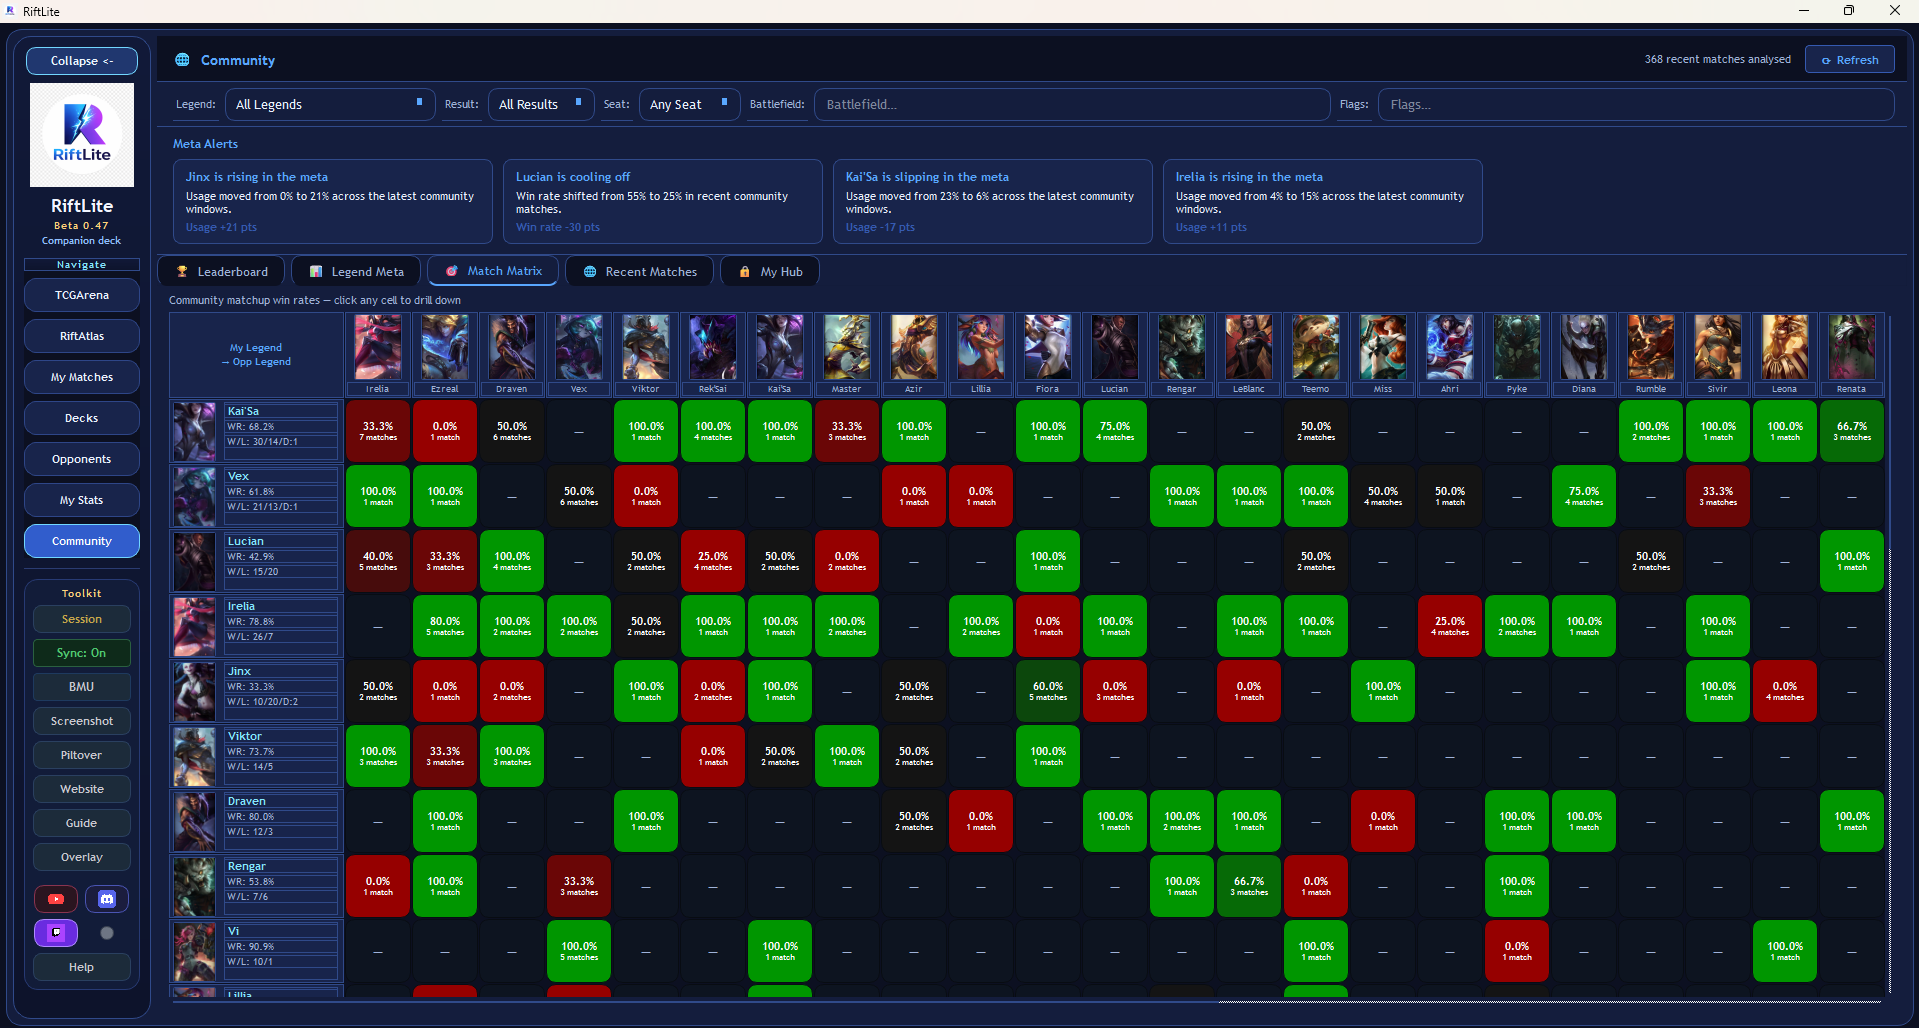
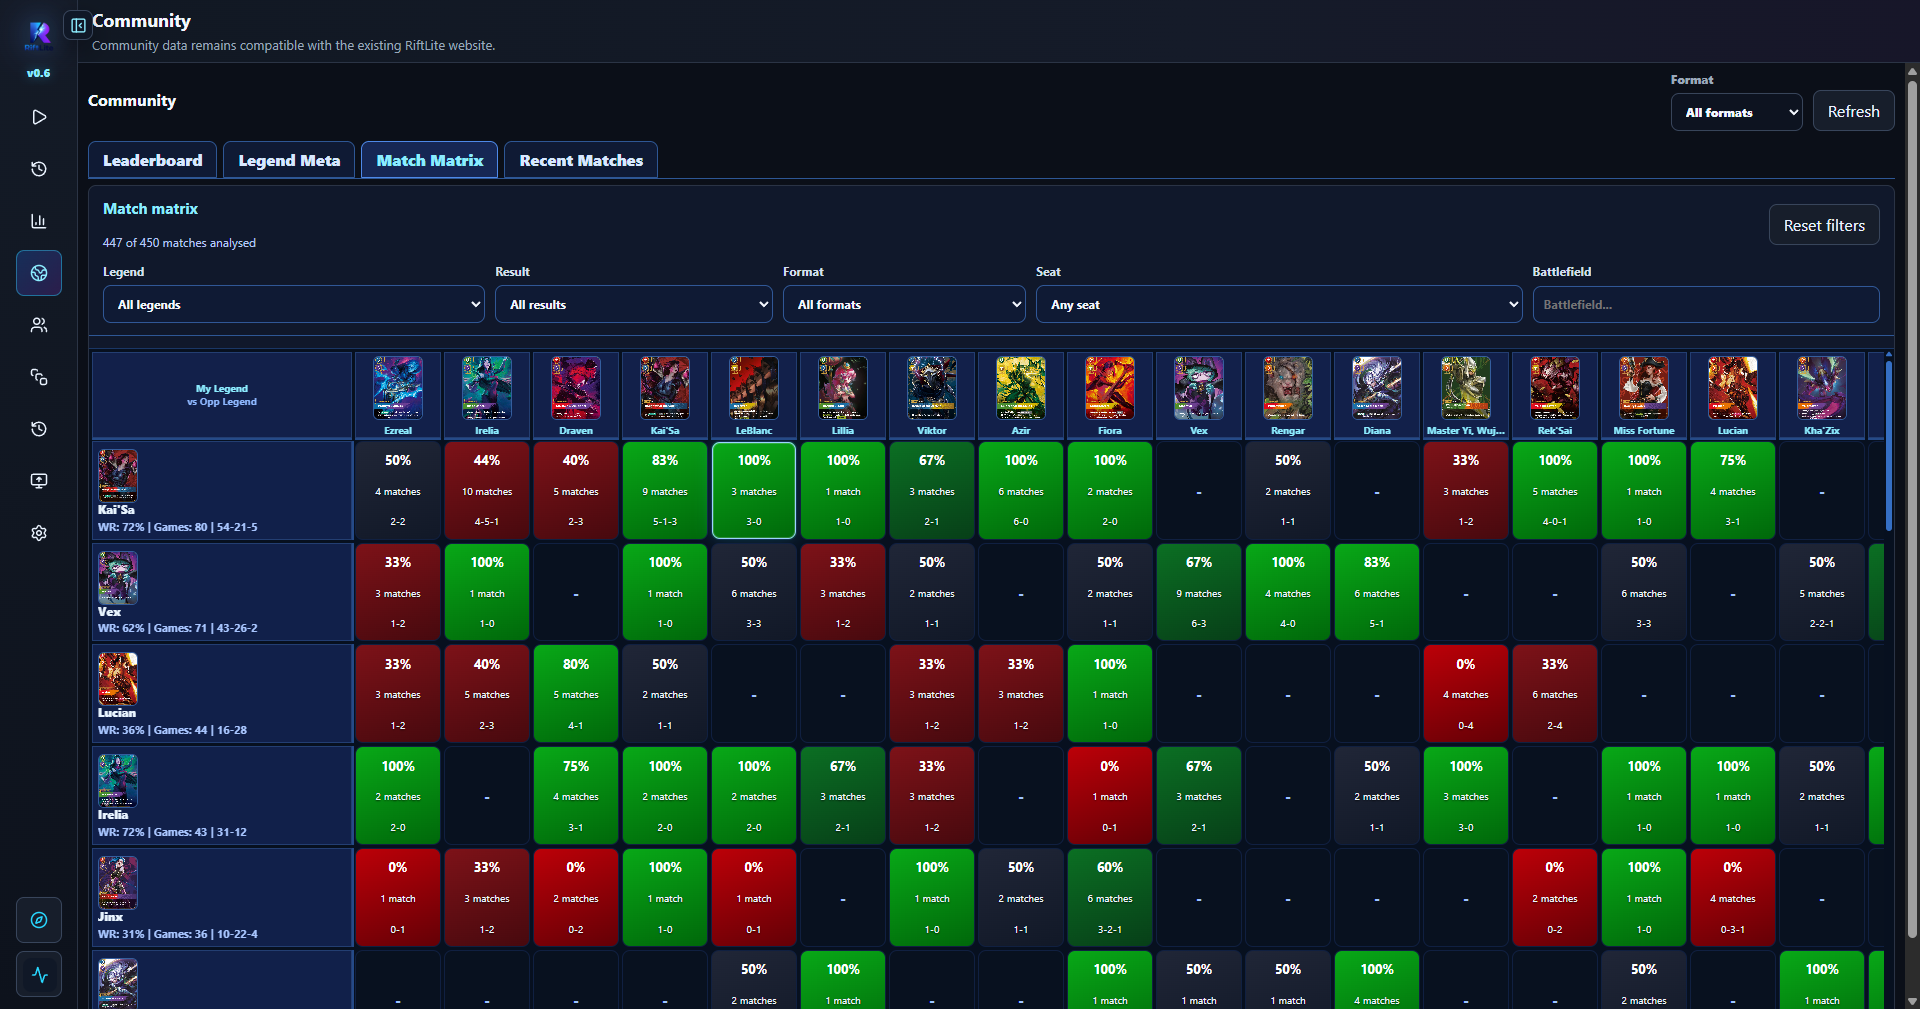
feat(site): refresh app screenshots and remove replay feature
Replay viewer is now coming-soon, so strip the dedicated section
from the homepage, swap the download-page preview card for the
community screenshot, and re-mark the feature bullet. Updated
overlay/stats-matrix/match-matrix screenshots to the new app UI.

diff --git a/src/app/page.tsx b/src/app/page.tsx
@@ -85,12 +85,12 @@ export default async function HomePage() {
               </CardDescription>
               <div className="overflow-hidden rounded-2xl border border-white/10 bg-slate-950/50 p-4">
                 <Image
-                  alt="RiftLite streamer overlay showing personal and community matchup stats for Ezreal vs Vex"
+                  alt="RiftLite stream overlay configuration with live preview of matchup stats"
                   className="h-auto w-full rounded-lg"
-                  height={290}
+                  height={1009}
                   priority
                   src="/screenshots/overlay.png"
-                  width={470}
+                  width={1920}
                 />
               </div>
             </div>
@@ -132,15 +132,15 @@ export default async function HomePage() {
             <Image
               alt="Community match matrix — every legend vs every legend"
               className="h-auto w-full rounded-xl"
-              height={819}
+              height={1009}
               src="/screenshots/match-matrix.png"
-              width={1456}
+              width={1920}
             />
           </div>
         </div>
       </FadeUp>
 
-      {/* Feature 1: Streamer Overlay (the headliner) */}
+      {/* Feature 1: Streamer Overlay details */}
       <FadeUp className="space-y-10">
         <SectionHeading
           id="feature-overlay"
@@ -148,84 +148,30 @@ export default async function HomePage() {
           title="A streamer overlay built for Riftbound."
           description="Drop one URL into OBS as a Browser Source and your viewers see the same matchup intel you do — personal win rates, community averages, going-first splits, and the most-played battlefield for game one. No cloud round-trip, no extra setup; it reads from your already-synced history."
         />
-        <div className="grid gap-8 lg:grid-cols-[1.2fr_1fr] lg:items-center">
-          <div className="relative overflow-hidden rounded-3xl border border-white/[0.08] bg-slate-950/60 p-6 shadow-[0_0_80px_rgba(89,167,255,0.08)]">
-            <div className="pointer-events-none absolute -right-24 -top-24 h-72 w-72 rounded-full bg-cyan-400/10 blur-3xl" />
-            <Image
-              alt="Landscape streamer overlay — Ezreal vs Vex with personal and community win rates"
-              className="relative h-auto w-full rounded-xl"
-              height={290}
-              src="/screenshots/overlay.png"
-              width={470}
-            />
-          </div>
-          <ul className="space-y-4">
-            {[
-              {
-                title: "Zero-lag, local-first",
-                body: "Served from 127.0.0.1 — instant updates when you change legend, no Firebase reads while you're live.",
-              },
-              {
-                title: "Portrait or landscape",
-                body: "Two layouts built in. Pick whichever fits your scene and grab the URL from the app.",
-              },
-              {
-                title: "Personal + community side-by-side",
-                body: "Your own matchup history next to community averages, so your chat sees the real picture.",
-              },
-            ].map((item) => (
-              <li className="rounded-2xl border border-white/[0.06] bg-white/[0.02] p-5" key={item.title}>
-                <div className="font-display text-base font-semibold text-white">{item.title}</div>
-                <p className="mt-1.5 text-sm leading-6 text-slate-400">{item.body}</p>
-              </li>
-            ))}
-          </ul>
-        </div>
+        <ul className="grid gap-4 md:grid-cols-3">
+          {[
+            {
+              title: "Zero-lag, local-first",
+              body: "Served from 127.0.0.1 — instant updates when you change legend, no Firebase reads while you're live.",
+            },
+            {
+              title: "Portrait or landscape",
+              body: "Two layouts built in. Pick whichever fits your scene and grab the URL from the app.",
+            },
+            {
+              title: "Personal + community side-by-side",
+              body: "Your own matchup history next to community averages, so your chat sees the real picture.",
+            },
+          ].map((item) => (
+            <li className="rounded-2xl border border-white/[0.06] bg-white/[0.02] p-5" key={item.title}>
+              <div className="font-display text-base font-semibold text-white">{item.title}</div>
+              <p className="mt-1.5 text-sm leading-6 text-slate-400">{item.body}</p>
+            </li>
+          ))}
+        </ul>
       </FadeUp>
 
       <AdSlot placement="home-hero" slots={adSlots} />
-
-      {/* Feature 2: Replay viewer */}
-      <FadeUp className="space-y-10">
-        <SectionHeading
-          id="feature-replay"
-          eyebrow="Replay viewer"
-          title="Walk through every game, turn by turn."
-          description="RiftLite captures the action feed from each match and rebuilds it as a navigable replay. Jump between turns, see points scored, cards played, and battlefields conquered — perfect for studying matchups or reviewing a tight Bo3."
-        />
-        <div className="grid gap-8 lg:grid-cols-[1fr_1.2fr] lg:items-center">
-          <ul className="order-2 space-y-4 lg:order-1">
-            {[
-              {
-                title: "Turn-by-turn timeline",
-                body: "Scrub through both players' turns with scoreboard state at every point.",
-              },
-              {
-                title: "Full action feed",
-                body: "Cards played, runes drawn, battlefields taken — exactly what happened, when.",
-              },
-              {
-                title: "Works on your logged matches",
-                body: "Every tracked game becomes a replay automatically. No extra step.",
-              },
-            ].map((item) => (
-              <li className="rounded-2xl border border-white/[0.06] bg-white/[0.02] p-5" key={item.title}>
-                <div className="font-display text-base font-semibold text-white">{item.title}</div>
-                <p className="mt-1.5 text-sm leading-6 text-slate-400">{item.body}</p>
-              </li>
-            ))}
-          </ul>
-          <div className="relative order-1 overflow-hidden rounded-3xl border border-white/[0.08] bg-slate-950/60 p-3 shadow-[0_0_80px_rgba(166,124,255,0.08)] lg:order-2">
-            <Image
-              alt="RiftLite replay viewer showing turn timeline and action feed for a match"
-              className="h-auto w-full rounded-xl"
-              height={819}
-              src="/screenshots/replay-viewer.png"
-              width={1456}
-            />
-          </div>
-        </div>
-      </FadeUp>
 
       {/* Feature 3: Stats matrix */}
       <FadeUp className="space-y-10">
@@ -239,9 +185,9 @@ export default async function HomePage() {
           <Image
             alt="RiftLite personal stats panel — matchup matrix and summary sidebar"
             className="h-auto w-full rounded-xl"
-            height={819}
+            height={1009}
             src="/screenshots/stats-matrix.png"
-            width={1456}
+            width={1920}
           />
         </div>
       </FadeUp>
@@ -267,8 +213,8 @@ export default async function HomePage() {
                 Ready to track your next match?
               </h3>
               <p className="text-base leading-7 text-slate-300">
-                Download RiftLite, open Riftbound, and your first game logs itself. Stream overlay,
-                replays, and community stats — all included.
+                Download RiftLite, open Riftbound, and your first game logs itself. Stream overlay
+                and community stats — all included.
               </p>
             </div>
             <div className="flex flex-wrap gap-3">

diff --git a/src/app/download/page.tsx b/src/app/download/page.tsx
@@ -13,10 +13,10 @@ export const revalidate = 600;
 const features = [
   "Auto-logs matches — most fields fill themselves in",
   "Streamer overlay for OBS (new in 0.47)",
-  "Turn-by-turn replay viewer for every logged game",
   "Personal matchup matrix with going-first splits",
   "Piltover Archive deck import with per-match snapshots",
   "Community leaderboard, meta, and matrix — all in-app",
+  "Turn-by-turn replay viewer — coming soon",
 ];
 
 export default async function DownloadPage() {
@@ -68,11 +68,11 @@ export default async function DownloadPage() {
               New · Streamer Overlay
             </div>
             <Image
-              alt="RiftLite streamer overlay — matchup stats for Ezreal vs Vex"
+              alt="RiftLite stream overlay configuration with live matchup preview"
               className="h-auto w-full rounded-xl"
-              height={290}
+              height={1009}
               src="/screenshots/overlay.png"
-              width={470}
+              width={1920}
             />
           </div>
         </div>
@@ -82,17 +82,17 @@ export default async function DownloadPage() {
       <div className="grid gap-6 md:grid-cols-2">
         <Card className="space-y-3">
           <div className="text-[10px] font-bold uppercase tracking-[0.26em] text-cyan-200">
-            Replay viewer
+            Community
           </div>
           <h3 className="font-display text-lg font-semibold text-white">
-            Walk through every turn.
+            The whole meta, in-app.
           </h3>
           <div className="overflow-hidden rounded-xl border border-white/[0.06] bg-slate-950/60">
             <Image
-              alt="Replay viewer showing turn timeline and action feed"
+              alt="Community leaderboard and meta inside RiftLite"
               className="h-auto w-full"
               height={819}
-              src="/screenshots/replay-viewer.png"
+              src="/screenshots/community.png"
               width={1456}
             />
           </div>
@@ -108,9 +108,9 @@ export default async function DownloadPage() {
             <Image
               alt="Personal stats — matchup matrix and summary"
               className="h-auto w-full"
-              height={819}
+              height={1009}
               src="/screenshots/stats-matrix.png"
-              width={1456}
+              width={1920}
             />
           </div>
         </Card>

diff --git a/src/app/layout.tsx b/src/app/layout.tsx
@@ -76,7 +76,7 @@ export default async function RootLayout({
       operatingSystem: "Windows",
       url: "https://www.riftlite.com/download",
       description:
-        "Desktop companion app for Legends of Runeterra. Auto-logs matches, streamer overlay for OBS, turn-by-turn replay viewer, and personal matchup matrix.",
+        "Desktop companion app for Riftbound. Auto-logs matches, streamer overlay for OBS, personal matchup matrix, and community meta.",
       offers: { "@type": "Offer", price: "0", priceCurrency: "USD" },
     },
   ];
